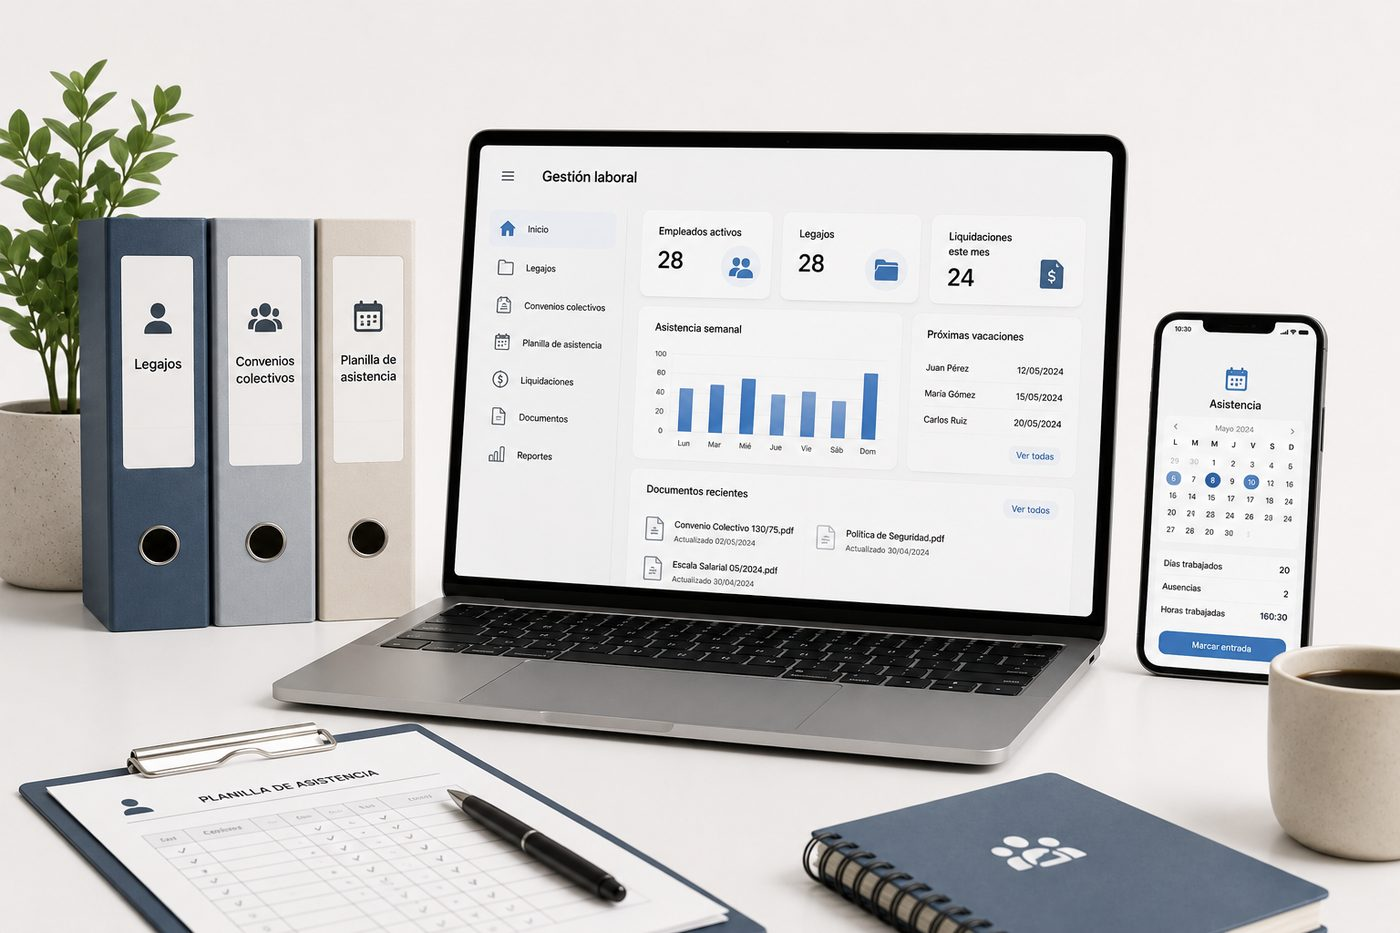
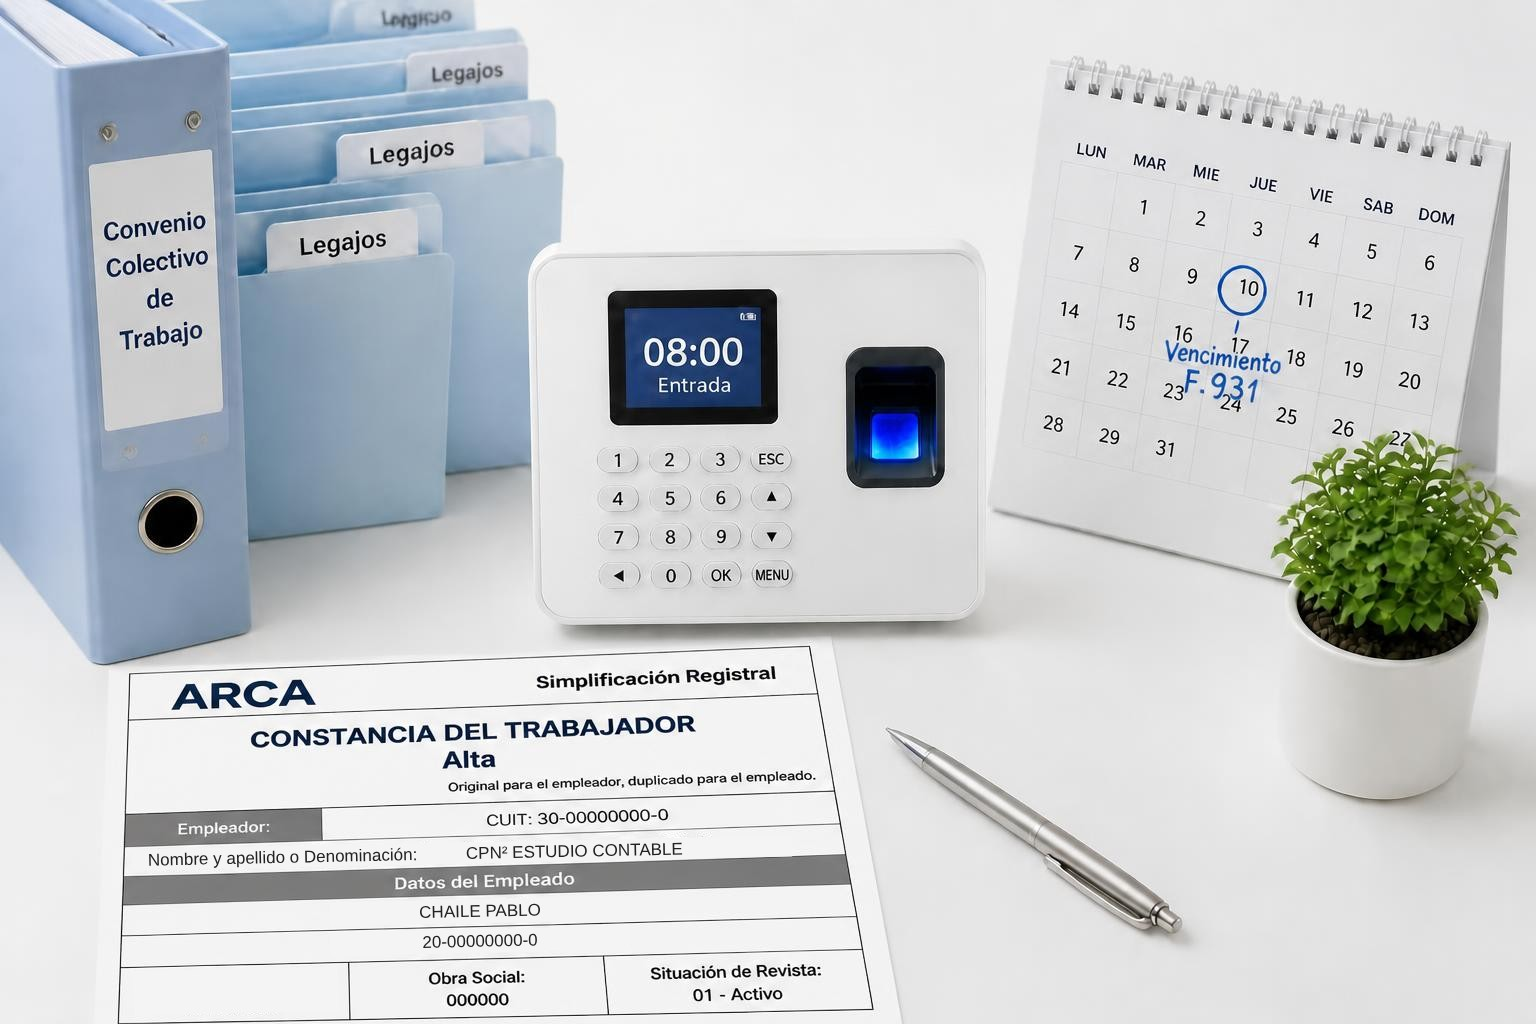
Nueva imagen para Sueldos y gestión laboral
Reemplaza la laptop por legajos, convenio colectivo, reloj con huella,
constancia de alta y calendario con vencimiento del F.931.

Claude-Session: https://claude.ai/code/session_01Vttd74UKYcbap4pMVSQr9j

diff --git a/index.html b/index.html
@@ -140,7 +140,7 @@
     <!-- 03 -->
     <article class="service-block" data-service data-label="Sueldos y laboral">
       <div class="service-block__media">
-        <img src="assets/img/services/sueldos.jpg?v=2" alt="Panel de liquidación de sueldos y cargas sociales" loading="lazy">
+        <img src="assets/img/services/sueldos.jpg?v=3" alt="Legajos, convenio colectivo, reloj con huella digital, constancia de alta y calendario con vencimiento del F.931" loading="lazy">
       </div>
       <div class="service-block__body">
         <span class="service-block__num">03</span>
